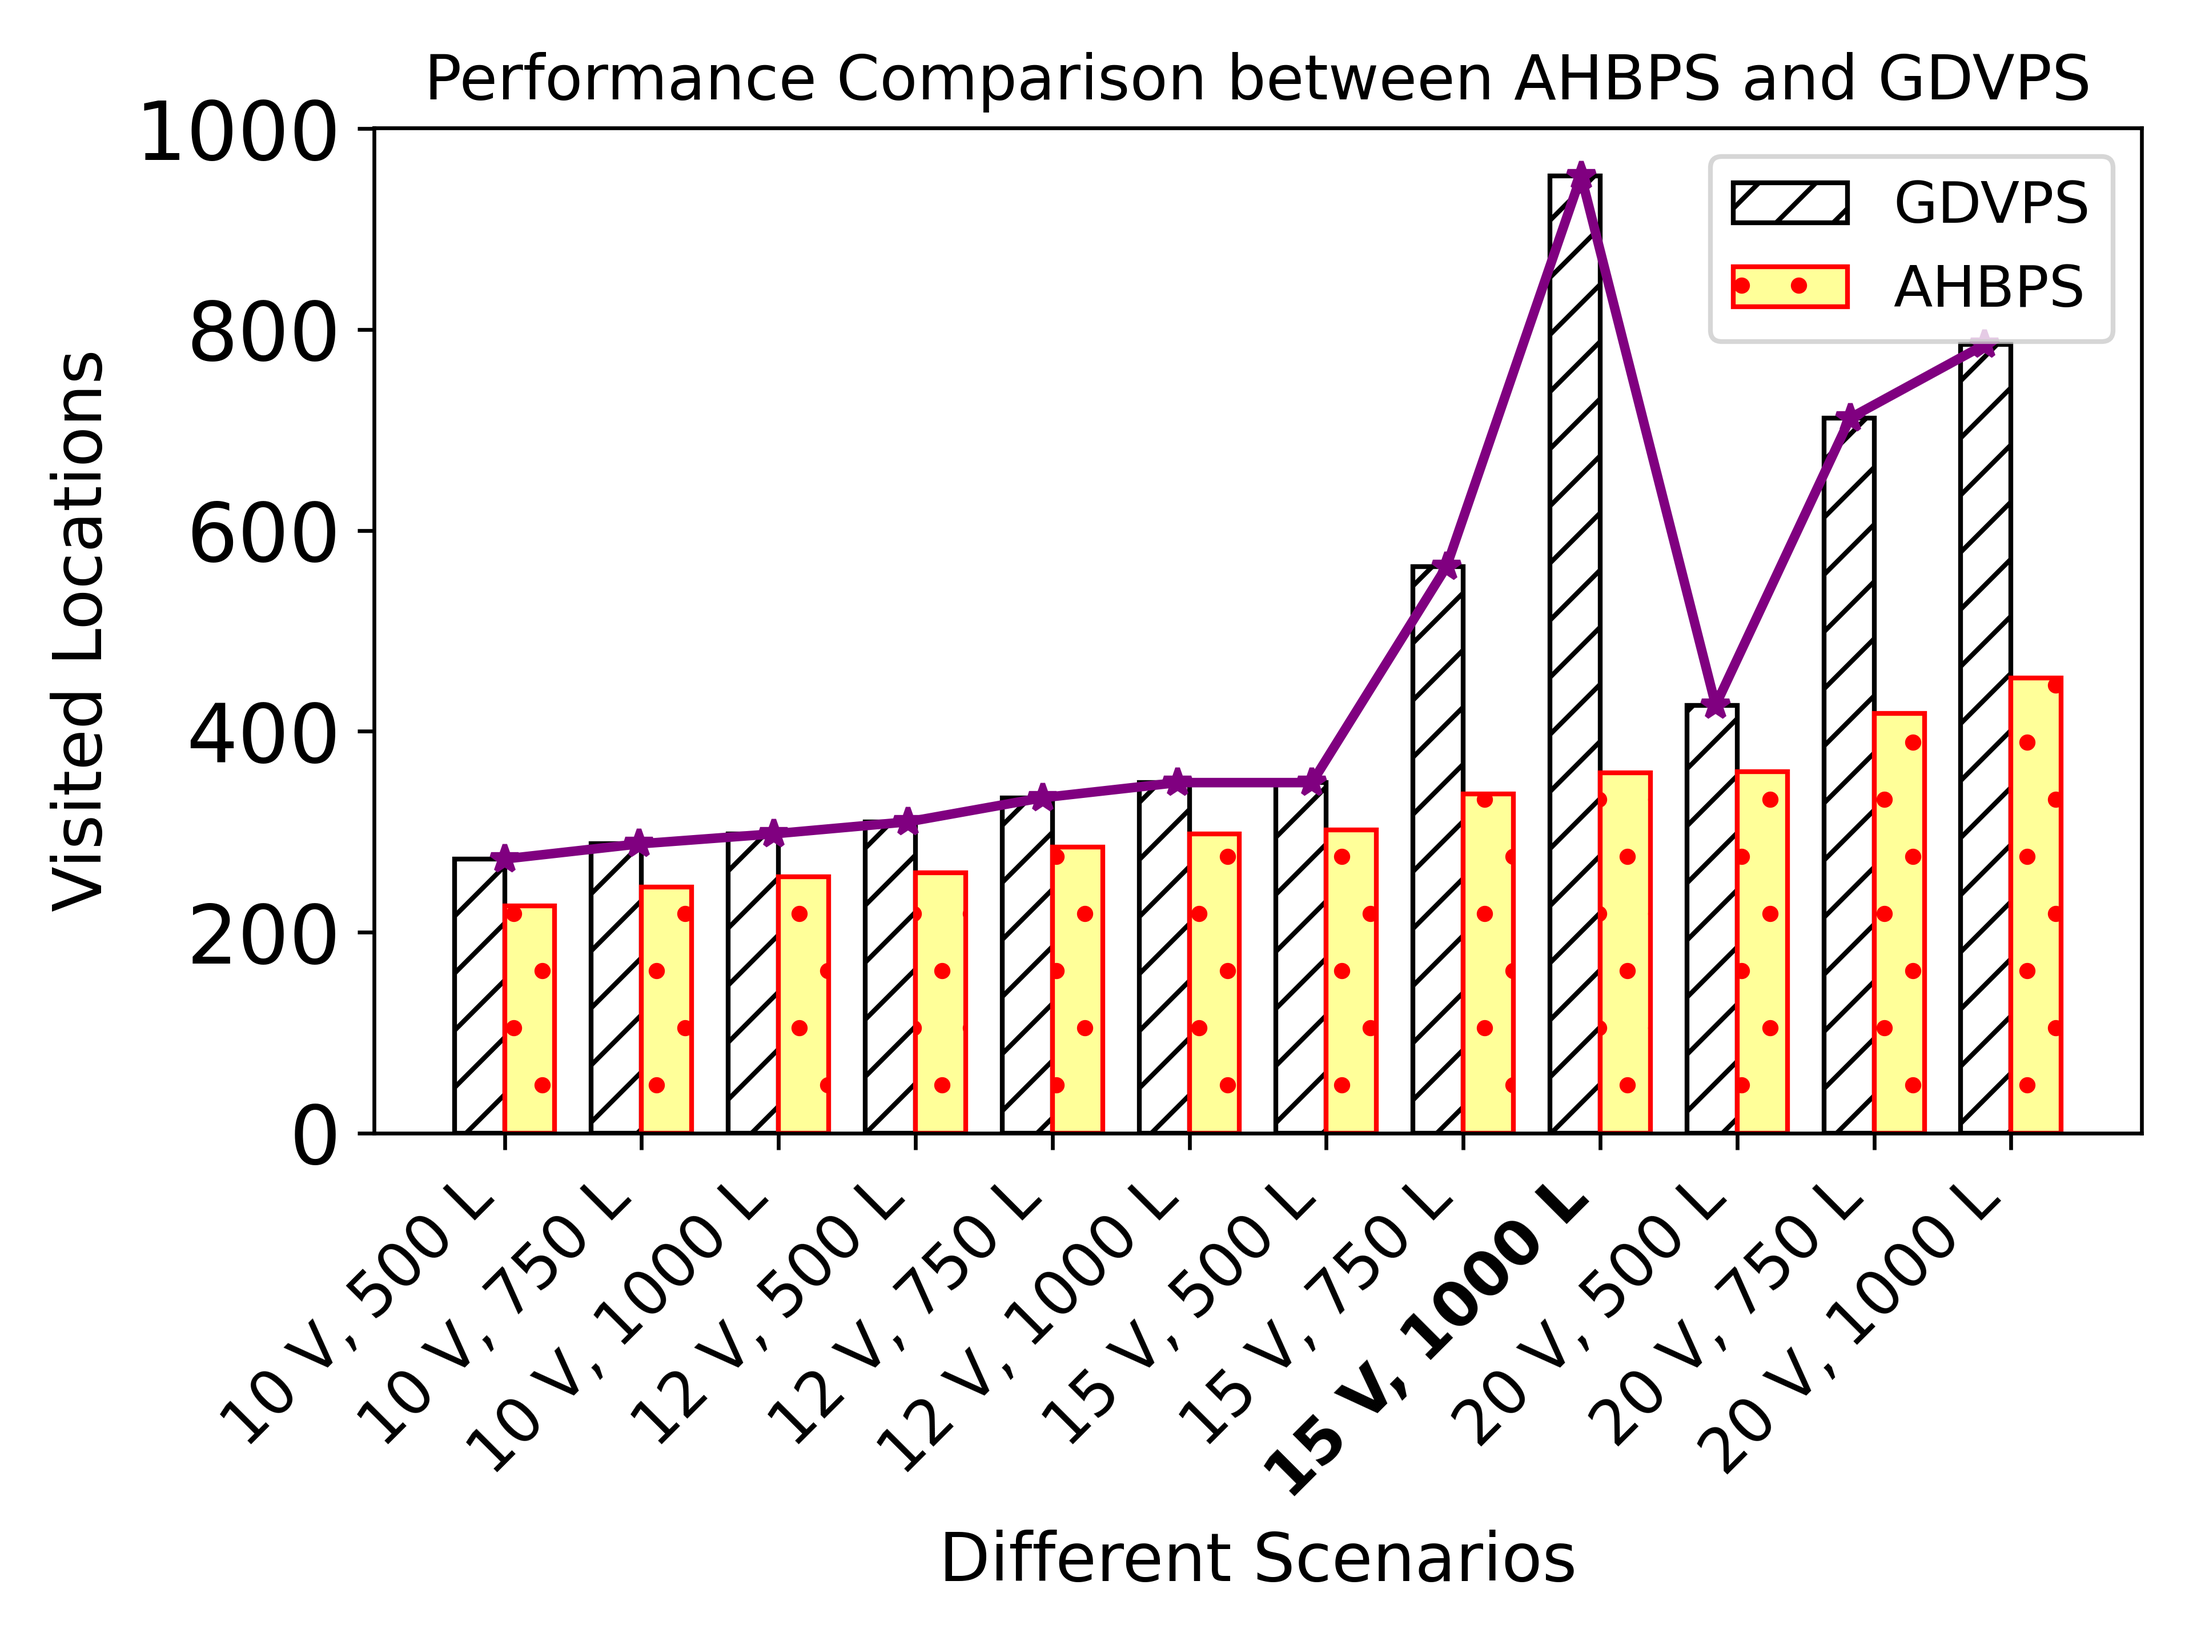
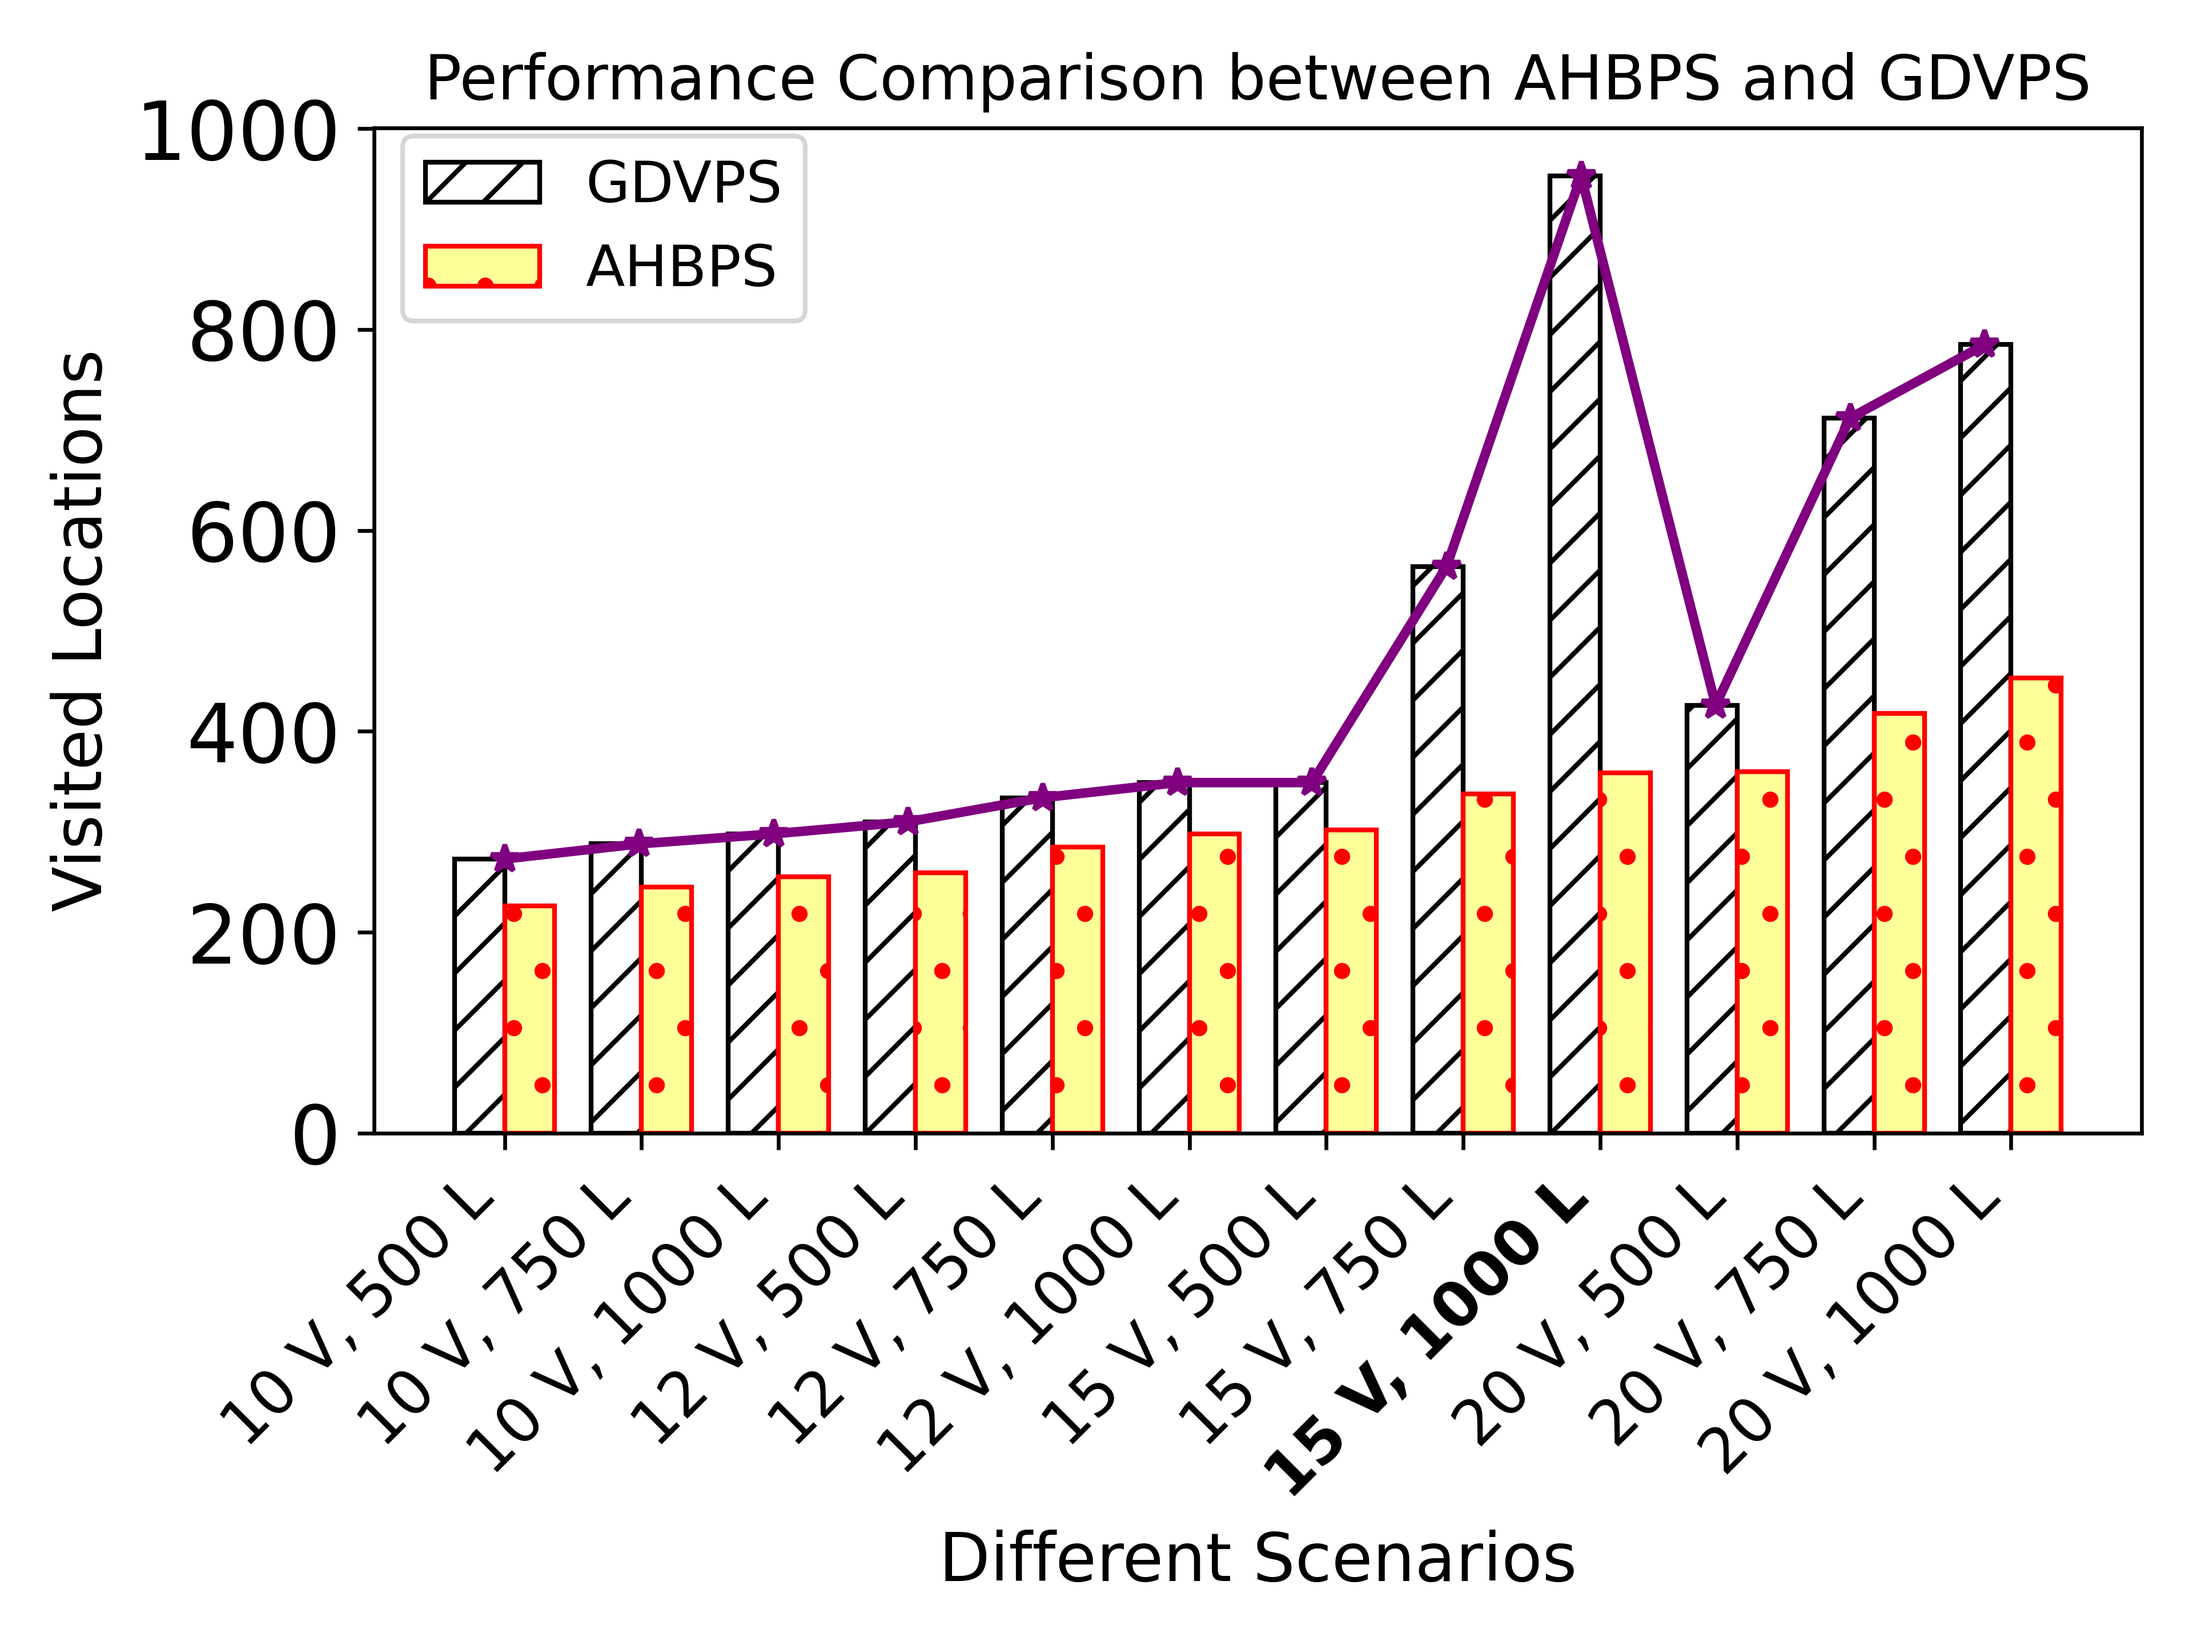
Visualization for execution time over small and large networks are added

Changed region(s): [[0.7812, 0.0938, 0.9688, 0.2188], [0.1875, 0.0938, 0.375, 0.1875]]

diff --git a/Visualize_codes/Execution_Time/Execution_Time_Small.py b/Visualize_codes/Execution_Time/Execution_Time_Small.py
@@ -1,0 +1,77 @@
+import matplotlib.pyplot as plt
+import numpy as np
+
+# Updated scenarios to include vehicles and locations
+scenarios = [
+    '1 V, 5 L', '1 V, 10 L', '1 V, 15 L',
+    '2 V, 5 L', '2 V, 10 L', '2 V, 15 L',
+    '3 V, 5 L', '3 V, 10 L', '3 V, 15 L',
+    '4 V, 5 L', '4 V, 10 L', '4 V, 15 L',
+]
+
+# AHBPS (Average Unique Locations Visited)
+ahbps_values = [0.001, 0.001, 0.001, 0.001, 0.001, 0.001, 0.001, 0.001, 0.001, 0.001, 0.001, 0.001]
+
+# GDVPS (Average fitness)
+gdvps_values = [0.15, 0.16, 0.16, 0.30, 0.31, 0.31, 0.70 , 0.54, 0.55, 0.79, 0.71, 0.65]
+
+# OPL (Optimal) values
+opl_values = [250, 850, 2100, 265, 960, 2680, 305, 1000, 3719, 450, 1279, 4200]
+
+# X-axis positions (just indexes for the line plot)
+x = np.arange(len(scenarios))
+
+# Creating the plot
+fig, ax = plt.subplots()
+
+# Grouping by the number of vehicles
+vehicle_groups = [x[:3], x[3:6], x[6:9], x[9:]]  # Grouped by '1 V', '2 V', '3 V', '4 V'
+
+# Plot OPL (limegreen with solid line), only connecting within each vehicle group
+for i, group in enumerate(vehicle_groups):
+    ax.plot(group, [opl_values[j] for j in group], color='limegreen', linestyle='-', marker='o', linewidth=2, label='OPL' if i == 0 else "")
+
+# Plot GDVPS (black with dashed line), only connecting within each vehicle group
+for i, group in enumerate(vehicle_groups):
+    ax.plot(group, [gdvps_values[j] for j in group], color='black', linestyle='--', marker='s', linewidth=2, label='GDVPS' if i == 0 else "")
+
+# Plot AHBPS (dark yellow with dotted line), only connecting within each vehicle group
+for i, group in enumerate(vehicle_groups):
+    ax.plot(group, [ahbps_values[j] for j in group], color='#FFD700', linestyle=':', marker='^', linewidth=2, label='AHBPS' if i == 0 else "")
+
+# Find the top result in each group (max value from OPL, GDVPS, AHBPS)
+top_values = []
+top_x_positions = []
+
+for group in vehicle_groups:
+    max_value = max([opl_values[j] for j in group] + [gdvps_values[j] for j in group] + [ahbps_values[j] for j in group])
+    top_values.append(max_value)
+    top_x_positions.append(group[np.argmax([opl_values[j] for j in group] + [gdvps_values[j] for j in group] + [ahbps_values[j] for j in group])])
+
+# Plot a purple line connecting the top results
+# ax.plot(top_x_positions, top_values, color='purple', linestyle='-', marker='*', linewidth=2, label='Top Results')
+ax.plot(top_x_positions, top_values, color='purple', linestyle='-', marker='*', linewidth=2)
+
+# Set the tick labels for the x-axis
+ax.set_xticks(x)
+ax.set_xticklabels(scenarios, rotation=45, ha="right", fontsize=16)
+
+# Labels and title with increased font size
+ax.set_xlabel('Different Scenarios', fontsize=15)
+ax.set_ylabel('Execution Time (seconds)', fontsize=15)
+ax.set_title('Execution Time Comparison (OPL, AHBPS, GDVPS)', fontsize=15)
+
+# Increase the font size of the numbers on the y-axis
+ax.tick_params(axis='y', labelsize=18)
+
+# Add the legend
+ax.legend(fontsize=10, loc='best')
+
+# Adjust layout
+plt.tight_layout()
+
+# Save the plot locally
+plt.savefig('execution_time_comparison_opl_ahbps_gdvps_top_results.png', dpi=600)
+
+# Show the plot
+plt.show()

diff --git a/large_instances/Visualize.py b/large_instances/Visualize.py
@@ -63,8 +63,7 @@ best_values = [max(ahbps_values[i], gdvps_values[i]) for i in range(len(scenario
 best_x_positions = [(x[i] - bar_width/2 + x[i] + bar_width/2)/2.0355 for i in range(len(scenarios))]  # Center of the bars
 
 # Plot the line connecting the best bars
-# ax.plot(best_x_positions, best_values, color='purple', linestyle='-', marker='*', linewidth=2, label='Best Values')
-ax.plot(best_x_positions, best_values, color='purple', linestyle='-', marker='*', linewidth=2,)
+ax.plot(best_x_positions, best_values, color='purple', linestyle='-', marker='*', linewidth=2)
 
 # Labels and title with increased font size
 ax.set_xlabel('Different Scenarios', fontsize=14)
@@ -84,8 +83,8 @@ for label in xtick_labels:
 # Increase the font size of the numbers on the y-axis
 ax.tick_params(axis='y', labelsize=17)
 
-# Increase the font size of the legend
-ax.legend(fontsize=12)
+# Move the legend to the left of the figure
+ax.legend(fontsize=12, loc='center left', bbox_to_anchor=(-0.0, 0.9))
 
 # Adjust layout
 plt.tight_layout()
